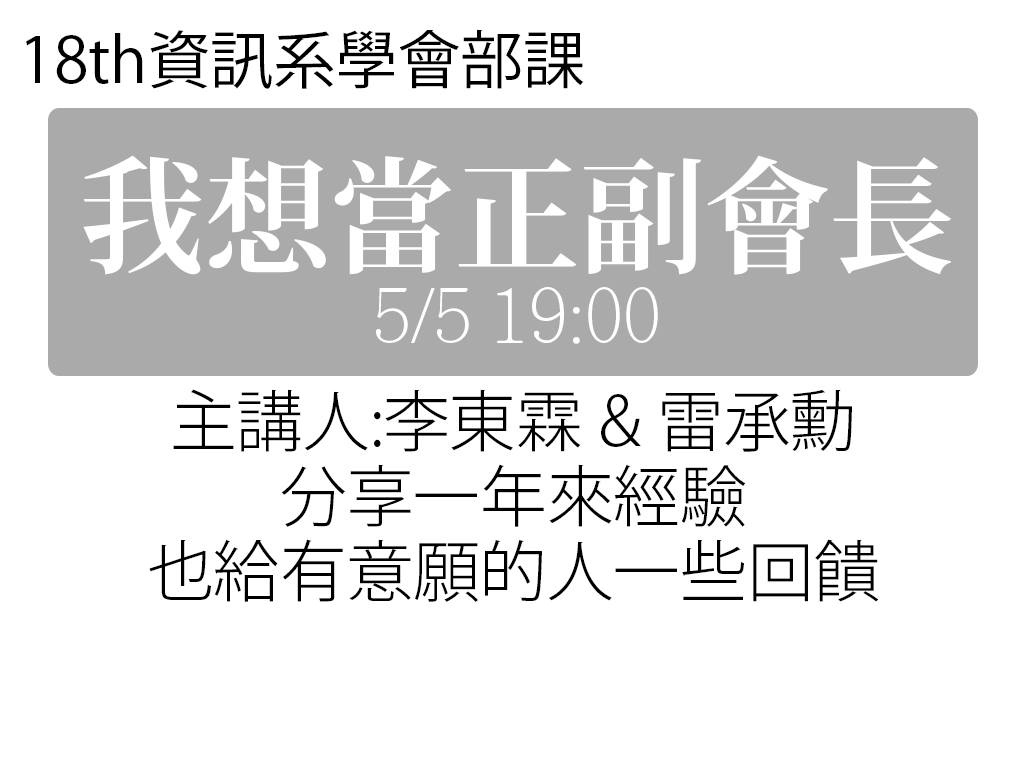
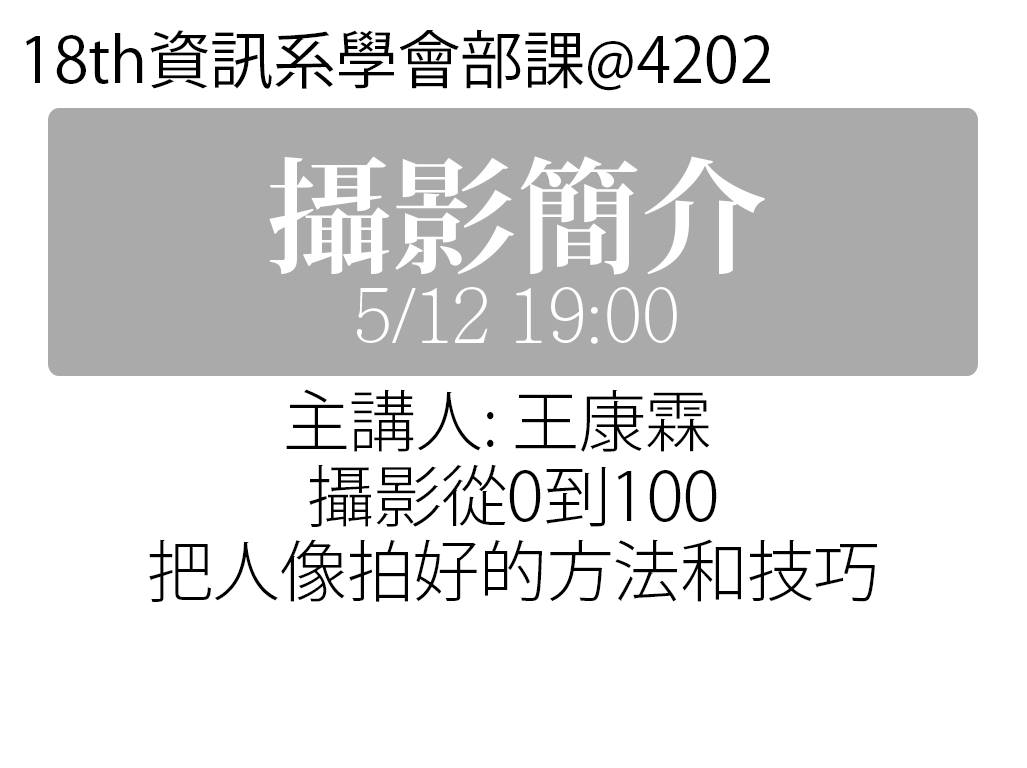
update 5/9

Changed region(s): [[0.0623, 0.1875, 0.9348, 0.4688], [0.1246, 0.5, 0.8724, 0.7812], [0.5609, 0.0312, 0.7478, 0.125]]

diff --git a/index.js b/index.js
@@ -22,7 +22,6 @@ var images = [
   'images/12.jpg',
   'images/13.jpg',
   'images/14.jpg',
-
 ];
 
 $.preload(images, 1, function(last){
@@ -42,7 +41,7 @@ var count = 1 ;
 function animate() {
 	count++;
 	//console.log("111");
-	if ( count > 14 )
+	if ( count > 13 )
 		count = 1 ;
 
 	//'background-size':'cover',
@@ -68,56 +67,56 @@ function animate() {
 			break;
 
 	}
+	//系女排
+	if (count == 1){
+		document.getElementById('content').children[0].innerHTML = "資訊女排，熱血拿牌";
+		document.getElementById('content').children[1].innerHTML = "2016 春季成功盃冠軍 用生命在打排球";
+	}
 
 	//系男籃
-	if (count == 1){
+	if (count == 2){
 		document.getElementById('content').children[0].innerHTML = "資訊男籃，陽光宅男";
 		document.getElementById('content').children[1].innerHTML = "最帥，沒有之一";
 	}
 	//系棒
-	if (count == 2){
+	if (count == 3){
 		document.getElementById('content').children[0].innerHTML = "2015 南資盃 壘球團體賽 殿軍";
-		document.getElementById('content').children[1].innerHTML = "練球時間：每週三、五 15:00~18:00 自強球場";
+		document.getElementById('content').children[1].innerHTML = "[系棒] 練球時間：每週三、五 15:00~18:00 自強球場";
 	}
 	//系排
-	if (count == 3){
-		document.getElementById('content').children[0].innerHTML = "2016 成大工院盃 男子排球賽 季軍";
-		document.getElementById('content').children[1].innerHTML = "練球時間：每週二、五 18:00 光復球場";
-	}
-	//小畢典
 	if (count == 4){
+		document.getElementById('content').children[0].innerHTML = "2016 成大工院盃 男子排球賽 季軍";
+		document.getElementById('content').children[1].innerHTML = "[男排] 練球時間：每週二、五 18:00 光復球場";
+	}
+	//女籃
+	if (count == 5){
 		document.getElementById('content').children[0].innerHTML = "2016 資訊女籃 成大工院盃 亞軍";
 		document.getElementById('content').children[1].innerHTML = "恭賀 兼具力與美的美女們奪得亞軍！";
 	}
 	//送舊
-	if (count == 5){
+	if (count == 6){
 		document.getElementById('content').children[0].innerHTML = "2016 送舊晚會 六月三日";
 		document.getElementById('content').children[1].innerHTML = "等你來挑戰！！";
 	}
 	//小畢典
-	if (count == 6){
+	if (count == 7){
 		document.getElementById('content').children[0].innerHTML = "2016 資訊系畢業典禮 六月五日 @ 大格致廳";
 		document.getElementById('content').children[1].innerHTML = "祝賀 學長姐鵬程萬里 一帆風順！";
 	}
-	//四月部課
-	if (count == 7){
-		document.getElementById('content').children[0].innerHTML = "[系會部課] 資訊系課程概況 @ 5/3 19:00";
-		document.getElementById('content').children[1].innerHTML = "主講人：18屆系學會 學術部長 張友誠 ";
-	}
-	//五月部課
+	//攝影部課
 	if (count == 8){
-		document.getElementById('content').children[0].innerHTML = "[系會部課] 我想當正副會長 @ 5/5 19:00";
-		document.getElementById('content').children[1].innerHTML = "主講人：18屆系學會 正、副會長  李東霖 雷承勳 ";
+		document.getElementById('content').children[0].innerHTML = "[系會部課] 攝影簡介 @4202 5/12 19:00";
+		document.getElementById('content').children[1].innerHTML = "主講人：王康霖 < 從0到100，雙手不搖擺 >";
 	}
 	//會長選舉
 	if (count == 9){
-		document.getElementById('content').children[0].innerHTML = "[系會部課] 天黑黑 @ 5/9 21:30";
-		document.getElementById('content').children[1].innerHTML = "主講人：2015 資訊周總籌 鞠之浩 張文瑋 昨日、今日、明日";
-	}
-	//會長選舉
-	if (count == 10){
 		document.getElementById('content').children[0].innerHTML = "19屆系學會 正、副會長選舉公告";
 		document.getElementById('content').children[1].innerHTML = "5/2~5/15 參選登記！為系上付出，人人有責。";
+	}
+	//[大學部]公告 預研生
+	if (count == 10){
+		document.getElementById('content').children[0].innerHTML = "[大學部] 預研生申請公告 5/2~5/15";
+		document.getElementById('content').children[1].innerHTML = "申請資格：大三 相關資訊請至系網查閱。";
 	}
 	//64級獎學金
 	if (count == 11){
@@ -131,12 +130,7 @@ function animate() {
 	}
 	//[大學部]公告 開設課程
 	if (count == 13){
-		document.getElementById('content').children[0].innerHTML = "[大學部] 上下學期開設課程表 已公告";
-		document.getElementById('content').children[1].innerHTML = "相關資訊請至系網查閱。";
-	}
-	//[大學部]公告 預研生
-	if (count == 14){
-		document.getElementById('content').children[0].innerHTML = "[大學部] 預研生申請公告 5/2~5/15";
-		document.getElementById('content').children[1].innerHTML = "申請資格：大三 相關資訊請至系網查閱。";
+		document.getElementById('content').children[0].innerHTML = "[演講資訊] 巨量資料分析技術與應用 @4263";
+		document.getElementById('content').children[1].innerHTML = "5/13（五）主講人：工研院 巨資中心 林軒毅";
 	}
 }

diff --git a/index.html b/index.html
@@ -25,8 +25,8 @@
     <div class="contentWrapper">
     
         <div class="content" id = "content">
-            <h2>資訊男籃 ， 陽光宅男</h2>
-            <p> 最帥，沒有之一。</p>
+            <h2>資訊女排，熱血拿牌</h2>
+            <p> 2016 春季成功盃冠軍 用生命在打排球</p>
         </div>
 
         <div class="footer">
